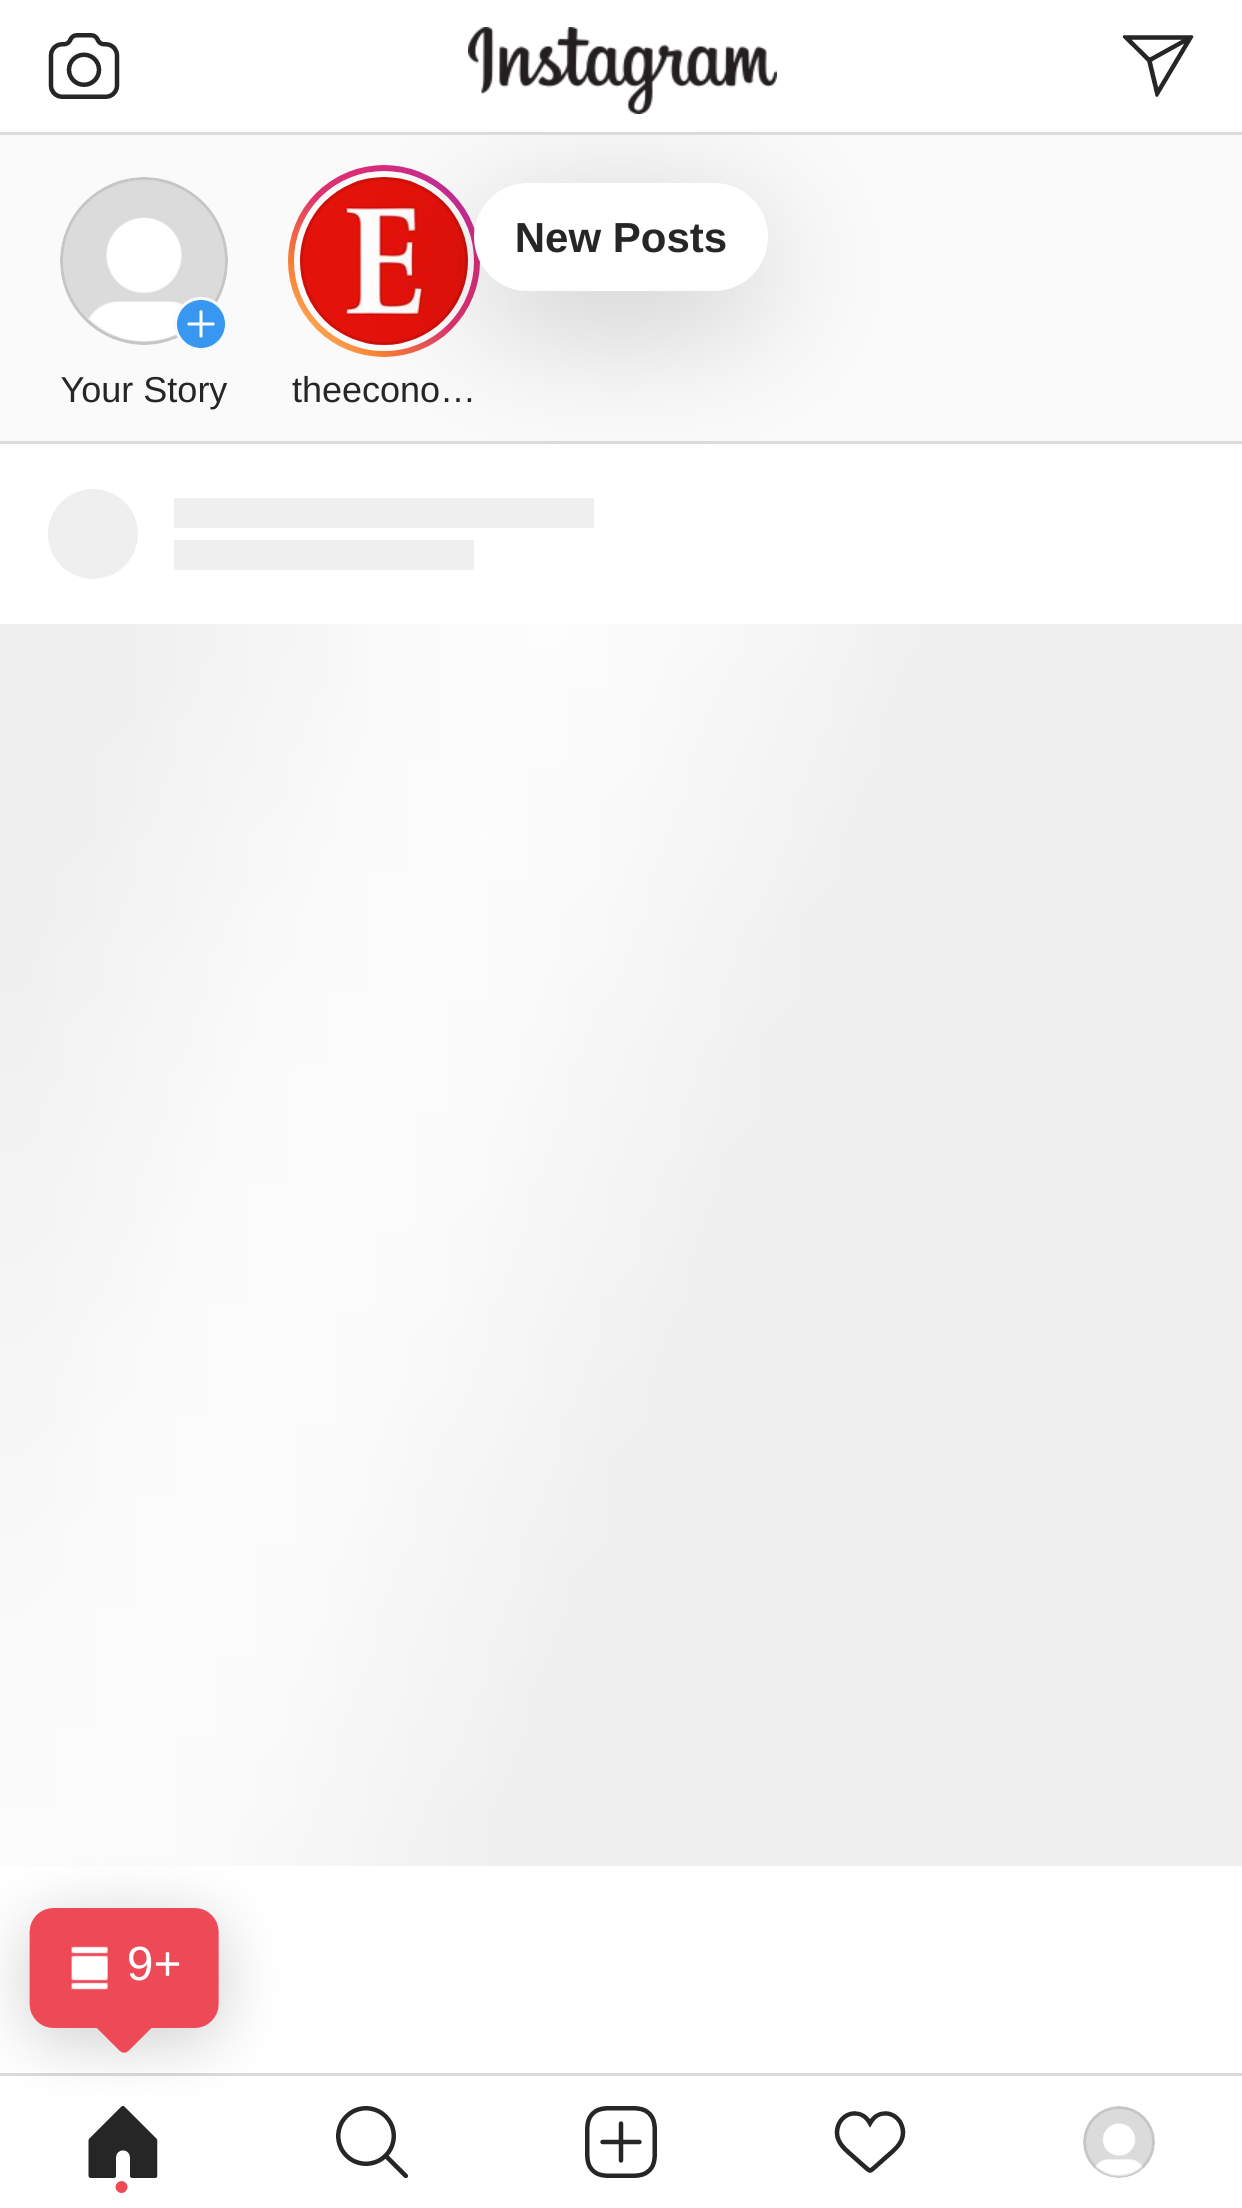
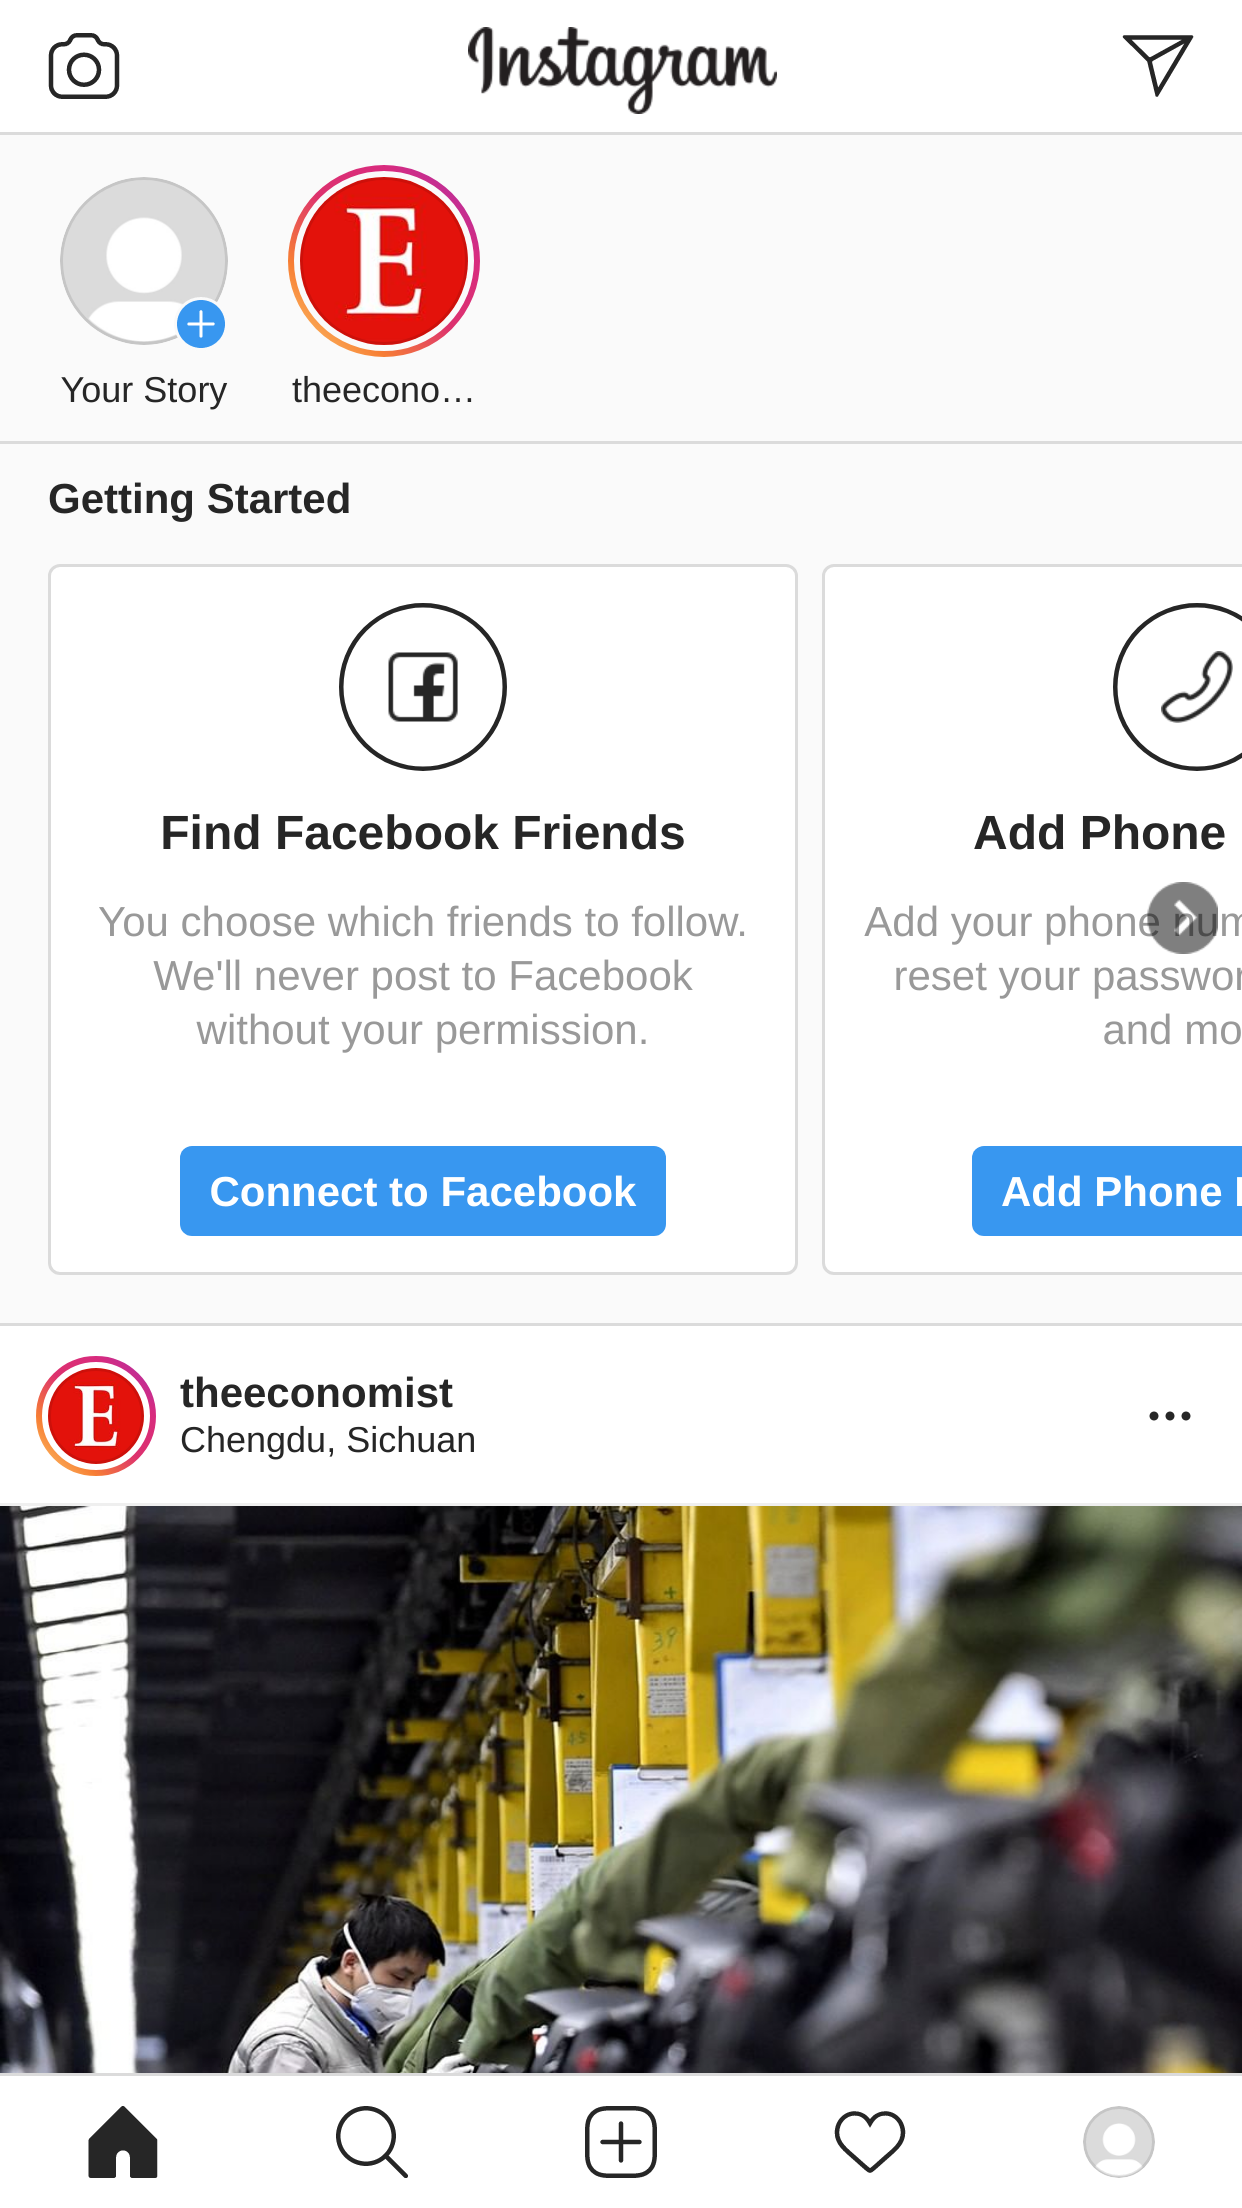
Add a screenshot

diff --git a/README.md b/README.md
@@ -106,17 +106,19 @@ b$Network$setCookies(cookies = cookies$cookies)
 #> named list()
 b$Page$navigate("https://www.instagram.com/accounts/login/")
 #> $frameId
-#> [1] "9414285CF7DA850DBBE8E197A8D849C5"
+#> [1] "9AC28086CC350F17D1D836D6D1712B78"
 #> 
 #> $loaderId
-#> [1] "BF3FCF913334B8AFC9DD18F5454DDB55"
+#> [1] "DC6D19D62B13128AD8B7165E67318C66"
 b$Page$loadEventFired()
 #> $timestamp
-#> [1] 10331.95
+#> [1] 10496.09
 
 b$screenshot(filename = "screenshot.png")
 #> [1] "screenshot.png"
 ```
+
+![](screenshot.png)
 
 ## Post a plot
 
